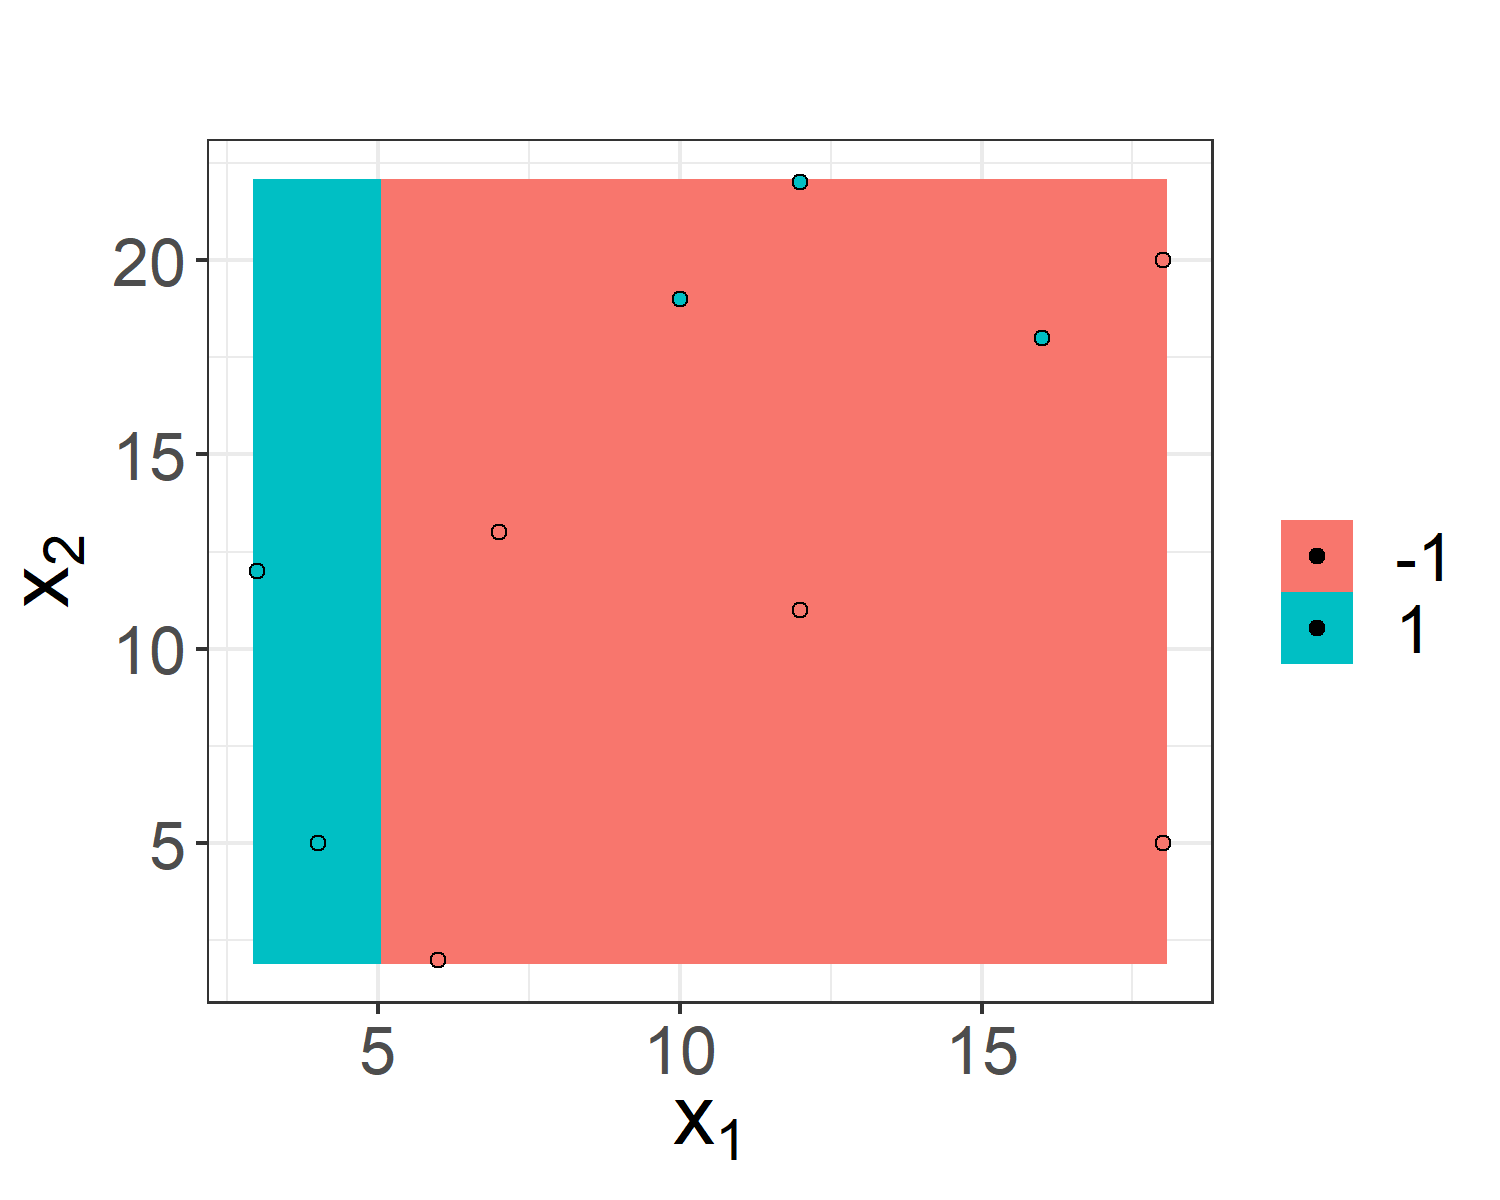
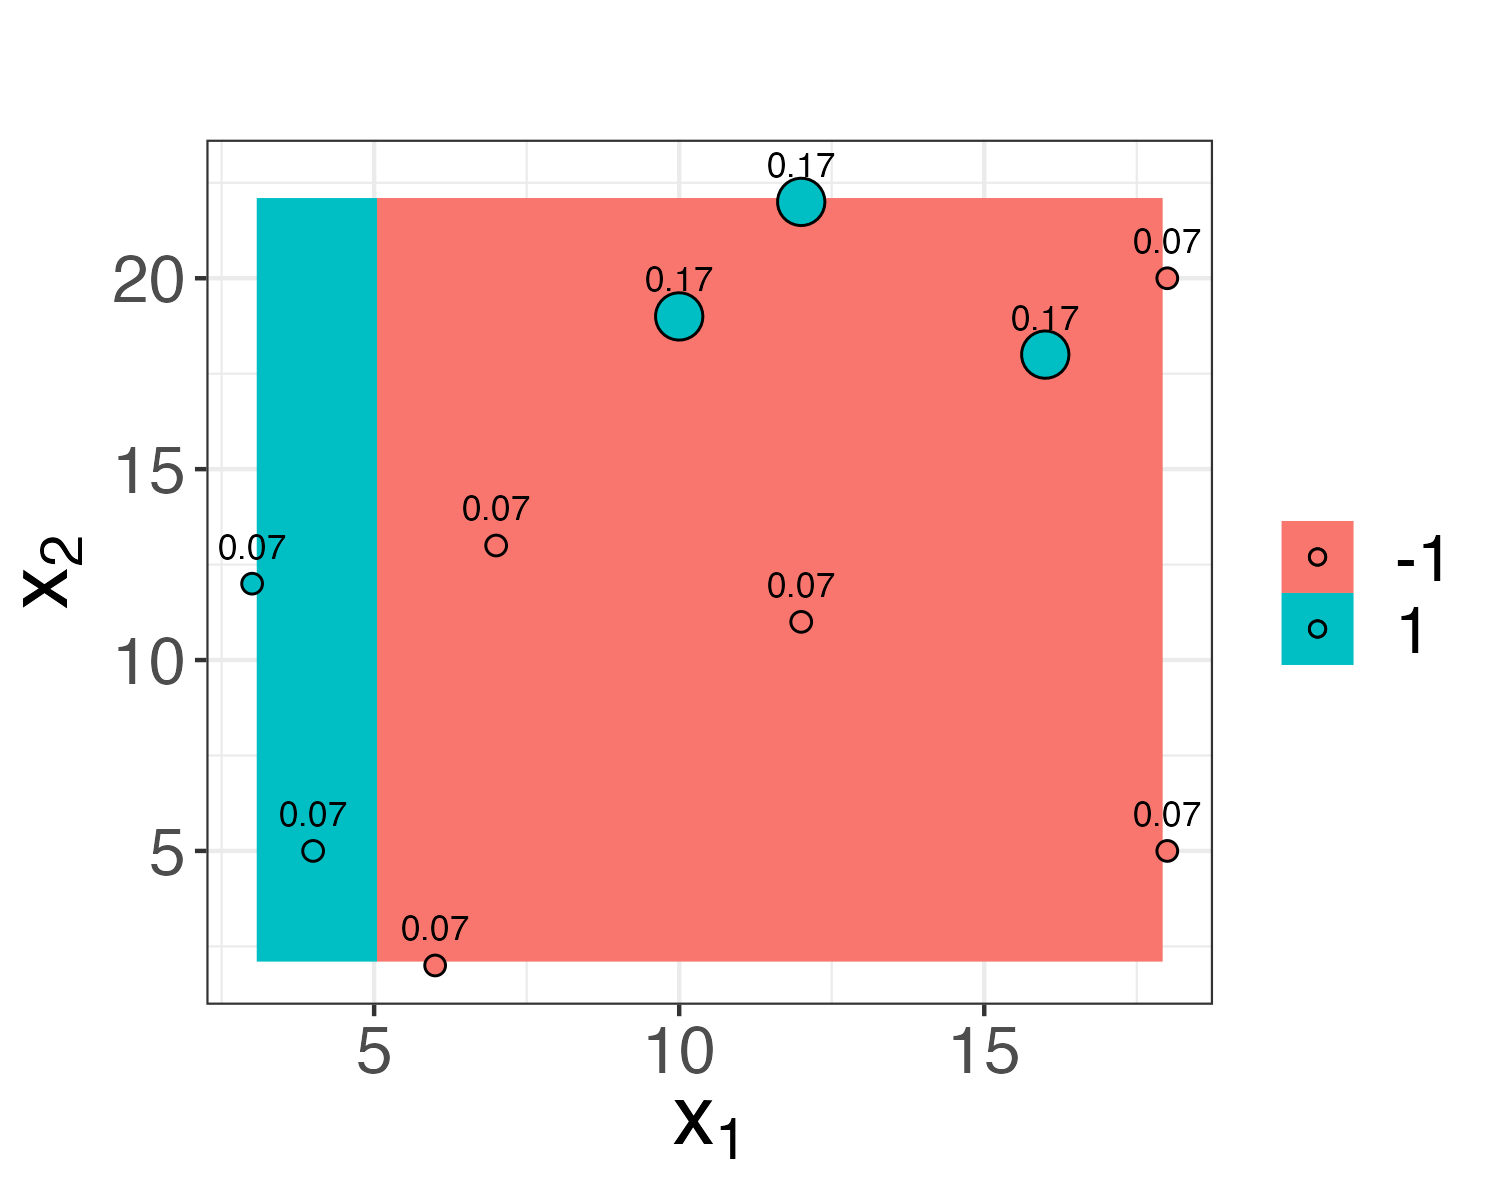
Adaboost fix (#821)
* add weight for correctly classified obs in iteration 2

* fixed figure file paths

* numbers on boosting slides

* Updated adaboost plots

* Updated adaboost slide + configured figure.

* Updated adaboost slide

* Update CHANGELOG.md

diff --git a/slides/boosting/slides-boosting-intro-adaboost.tex b/slides/boosting/slides-boosting-intro-adaboost.tex
@@ -4,7 +4,7 @@
 \input{../../latex-math/ml-ensembles.tex}
 \input{../../latex-math/ml-trees.tex}
 
-\newcommand{\titlefigure}{figure_man/adaboost_example_adjusted.PNG}
+\newcommand{\titlefigure}{figure_man/adaboost_example_adjusted.png}
 \newcommand{\learninggoals}{
   \item Understand general idea of boosting
   \item Learn AdaBoost algorithm 
@@ -220,20 +220,23 @@ Leo Breiman (referring to the success of AdaBoost):
   \begin{footnotesize}
   \textbf{Iteration} $m = 2$:
   \begin{itemize}
-    \item $\text{err}^{[2]} = 3 \cdot 0.07 = 0.21$ 
+    \item $\text{err}^{[2]} \approx 3 \cdot 0.07 = 0.21$ 
     \item $\hat{\beta}^{[2]} \approx 0.65$
     % \item The ratio $(1 - \errm) / \errm$ used to calculate the weights 
   \end{itemize}
-  New observation weights:
+  New observation weights (before normalization):
   \begin{itemize}
-    \item E.g., for 3 misclassified observations:
-      $w^{[3](i)} = w^{[2](i)} \cdot \exp \left(-\hat \beta^{[1]} \cdot (-1) 
-      \right) \approx 0.14.$
-    \item After normalization: $w^{[3](i)} \approx 0.17$ (misclassified)
+    \item For misclassified observations:
+      $w^{[3](i)} = w^{[2](i)} \cdot \exp \left(-\hat \beta^{[2]} \cdot (-1) 
+      \right) \approx w^{[2](i)} \cdot 1.92$
+%    \item After normalization: $w^{[3](i)} \approx 0.17$ (misclassified)
+    \item For correctly classified observations:
+      $w^{[3](i)} = w^{[2](i)} \cdot \exp \left(-\hat \beta^{[2]} \cdot 1
+            \right) \approx w^{[2](i)} \cdot 0.52$
   \end{itemize}
   \textbf{Iteration} $m = 3$:
   \begin{itemize}
-    \item $\text{err}^{[3]} = 3 \cdot 0.045 \approx 0.14$ 
+    \item $\text{err}^{[3]} \approx 3 \cdot 0.05 = 0.15$
     \item $\hat{\beta}^{[3]} \approx 0.92$
   % \item The ratio $(1 - \errm) / \errm$ used to calculate the weights 
   \end{itemize}
@@ -244,7 +247,7 @@ Leo Breiman (referring to the success of AdaBoost):
 
 \begin{footnotesize}
 \textbf{Note:} the smaller the error rate of a base learner, the larger the 
-weight, e.g., $\text{err}^{[3]} \approx 0.14 < \text{err}^{[1]} \approx 0.3$ 
+weight, e.g., $\text{err}^{[3]} \approx 0.15 < \text{err}^{[1]} \approx 0.3$ 
 and $\hat \beta^{[3]} \approx 0.92 > \hat \beta^{[1]} \approx 0.42.$
 \end{footnotesize}
 
@@ -257,7 +260,7 @@ With $\fxh = \sum_{m=1}^{M} \betamh \blh(\xv)$ and $h(\xv) = \text{sign}(\fx)
 
 \begin{center}
   \includegraphics[trim = 0 20 0 10, clip, width = 0.8\textwidth]{
-  figure_man/adaboost_example_adjusted.PNG}
+  figure_man/adaboost_example_adjusted.png}
 \end{center}
 
 Hence, when all three base classifiers are combined, all samples are classified 

diff --git a/slides/boosting/slides-boosting-gbm-with-trees-1.tex b/slides/boosting/slides-boosting-gbm-with-trees-1.tex
@@ -344,7 +344,7 @@ with $f_0$ being a constant intercept.
 \vfill
 
 \begin{center}
-\includegraphics[width=0.6\textwidth]{ figure_man/boosting_interaction_targetfunction3D.PNG}
+\includegraphics[width=0.6\textwidth]{ figure_man/boosting_interaction_targetfunction3D.png}
 \end{center}
 
 \framebreak
@@ -417,7 +417,7 @@ No interactions are modelled: Marginal effects of $x_1$ and $x_2$ add up to join
 Interactions between $x_1$ and $x_2$ are modelled: Marginal effects of $x_1$ and $x_2$ do NOT add up to joint effect due to interaction effects.
 
 \begin{center}
-\includegraphics[width=0.4\textwidth]{figure/boosting_interaction_example_ID2.PNG}
+\includegraphics[width=0.4\textwidth]{figure/boosting_interaction_example_ID2.png}
 \includegraphics[width=0.48\textwidth]{figure/interaction_td2_d3.png}
 \end{center}
 

diff --git a/slides/boosting/slides-boosting-gbm-classification.tex b/slides/boosting/slides-boosting-gbm-classification.tex
@@ -4,7 +4,7 @@
 \input{../../latex-math/ml-ensembles.tex}
 \input{../../latex-math/ml-trees.tex}
 
-\newcommand{\titlefigure}{figure_man/boosting_classif_title.png}
+\newcommand{\titlefigure}{figure_man/boosting_classif_title.PNG}
 \newcommand{\learninggoals}{
   \item GB for binary classification simply uses
       Bernoulli or exponential loss

diff --git a/CHANGELOG.md b/CHANGELOG.md
@@ -1,5 +1,8 @@
 ## Changelog
 
+### 10-2022
+- Fixed Adaboost slides
+
 ### 02-2022
 - Reworked all exercise sheets in Chapter 1-9
 
